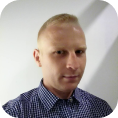
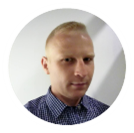
Fix: Added images and styling project__footer

diff --git a/dist/js/main.js b/dist/js/main.js
@@ -1,1 +1,1 @@
[2 lines of base64/hex data omitted]

diff --git a/dist/css/main.css b/dist/css/main.css
@@ -314,9 +314,10 @@ template {
   padding: 10rem 8rem 5rem 4rem; }
   .hero__image {
     position: absolute;
-    left: 6rem;
+    left: 7.5rem;
     top: 6rem;
     border-radius: 50%;
+    border: .4rem solid lightgrey;
     width: 7rem;
     height: 7rem; }
   .hero__title {
@@ -377,9 +378,8 @@ template {
     color: #2251CC; }
 
 .projects {
-  padding: 0 8rem 0 4rem;
-  margin: 8rem 0;
   background: #F5F7FA;
+  padding: 6rem 8rem 6rem 6rem;
   width: 100%; }
   .projects__title {
     color: #171F3F;
@@ -387,12 +387,12 @@ template {
     line-height: 2.75rem;
     padding: 1rem 0; }
   .projects__description {
+    color: #52606D;
     font-weight: 300;
     font-size: 1.25rem;
     line-height: 2.25rem;
     max-width: 681px;
     max-height: 108px;
-    color: #52606D;
     text-align: justify; }
 
 .container__projects {
@@ -435,19 +435,50 @@ template {
     padding: 2rem; }
   .project__footer {
     background: #F5F7FA;
-    height: 4rem;
-    width: 100%;
-    padding: 1.2rem 0 0 11rem; }
+    padding: 1rem 2rem;
+    text-align: end;
+    width: 100%; }
   .project__link {
     color: #0593FB;
     font-size: 1.1rem;
     font-weight: 500;
+    line-height: 2rem;
     text-decoration: none;
-    padding: 0 1rem; }
+    padding: 0 1rem;
+    display: -webkit-inline-box;
+    display: -ms-inline-flexbox;
+    display: inline-flex;
+    -webkit-box-align: center;
+        -ms-flex-align: center;
+            align-items: center; }
+    .project__link:nth-child(2) {
+      position: relative; }
+      .project__link:nth-child(2)::after {
+        background: #CBD2D9;
+        content: "";
+        display: block;
+        height: 2rem;
+        pointer-events: none;
+        position: absolute;
+        left: -2%;
+        width: 2px; }
+    .project__link::before {
+      background: url("../assets/img/Code.svg");
+      background-position: center;
+      background-repeat: no-repeat;
+      content: "";
+      display: block;
+      height: 24px;
+      margin: 0 .5rem;
+      width: 24px; }
+    .project__link--active::before {
+      background: url("../assets/img/Demo.svg");
+      background-position: center center;
+      background-repeat: no-repeat; }
 
 .skills {
   max-width: 1240px;
-  padding: 0 4rem;
+  padding: 0 6rem;
   margin: 8rem 0; }
   .skills__title {
     color: #171F3F;
@@ -513,7 +544,7 @@ template {
   max-width: 1440px;
   width: 100%;
   height: 35rem;
-  padding: 5rem 10rem 0 4rem;
+  padding: 5rem 10rem 0 6rem;
   background: #171F3F; }
   .footer__title {
     color: #fff;

diff --git a/src/scss/modules/article.scss b/src/scss/modules/article.scss
@@ -1,7 +1,6 @@
 .projects {
-    padding: 0 8rem 0 4rem;
-    margin: 8rem 0;
     background: $background-grey;
+    padding: 6rem 8rem 6rem 6rem;
     width: 100%;
 
     &__title {
@@ -12,12 +11,12 @@
     }
 
     &__description {
+        color: $description-color;
         font-weight: 300;
         font-size: 1.25rem;
         line-height: 2.25rem;
         max-width: 681px;
         max-height: 108px;
-        color: $description-color;
         text-align: justify;
     }
 }
@@ -41,7 +40,6 @@
     flex-direction: column;
     justify-content: space-between;
 
-
     &__name {
         color: $border;
         font-size: 1.25rem;
@@ -64,17 +62,52 @@
 
     &__footer {
         background: $background-grey;
-        height: 4rem;
+        padding: 1rem 2rem;
+        text-align: end;
         width: 100%;
-        padding: 1.2rem 0 0 11rem;
     }
 
     &__link {
         color: $blue;
         font-size: 1.1rem;
         font-weight: 500;
+        line-height: 2rem;
         text-decoration: none;
         padding: 0 1rem;
-    }
+        display: inline-flex;
+        align-items: center;
 
+        &:nth-child(2) {
+
+            position: relative;
+
+            &::after {
+                background: #CBD2D9;
+                content: "";
+                display: block;
+                height: 2rem;
+                pointer-events: none;
+                position: absolute;
+                left: -2%;
+                width: 2px;
+            }
+        }
+
+        &::before {
+            background: url("../assets/img/Code.svg");
+            background-position: center;
+            background-repeat: no-repeat;
+            content: "";
+            display: block;
+            height: 24px;
+            margin: 0 .5rem;
+            width: 24px;
+        }
+
+        &--active::before {
+            background: url("../assets/img/Demo.svg");
+            background-position: center center;
+            background-repeat: no-repeat;
+        }
+    }
 }

diff --git a/src/js/main.js b/src/js/main.js
@@ -17,22 +17,18 @@ fetch('https://api.github.com/users/piotrn-87/repos?sort=updated&direction=desc'
       list.innerHTML +=
         `<li class="project">
           <div class="project__wrapper">
-          <img class="project__logo" src="assets/img/github.svg" alt="github icon">
+          <img class="project__logo" src="assets/img/github.svg" alt="github image">
           <h3 class="project__name">${name}</h3> 
           ${description ? `<p class="project__description">${description}</p>`: 'no description'
           }
           </div>
           <div class="project__footer">
-          ${homepage ? `<a class="project__link" href="${homepage}" target="_blank" title="Demo : ${name}">Demo</a>` : ''
+          ${homepage ? `<a class="project__link project__link--active" href="${homepage}" target="_blank" title="Demo : ${name}">Demo</a>` : ''
           }
           <a class="project__link" href="${html_url}" target="_blank" title="source : ${name}">Github</a>
           </div>
         </li>
         `;
-      console.log(name);
-      console.log(description);
-      console.log(html_url);
-      console.log(homepage);
     }
 
   })

diff --git a/dist/index.html b/dist/index.html
@@ -110,12 +110,12 @@
     <h2 class="footer__title">Contact me</h2>
     <p class="footer__description">I’m open for new opportunities. If you have one for me we should talk !!
     </p>
-    <!-- <div class="socials">
+    <div class="socials">
       <a class="socials__link" href="https://github.com/Piotrn-87"><img src="../assets/img/linkedin.png"
           alt="Linkedin icon"></a>
       <a class="socials__link" href="https://github.com/Piotrn-87"><img src="../assets/img/github.png"
           alt="github icon"></a>
-    </div> -->
+    </div>
     <a class="footer__mail" href="mailto:piotrn-87@o2.pl">piotrn-87@o2.pl</a>
   </footer>
 

diff --git a/src/content/index.html b/src/content/index.html
@@ -110,12 +110,12 @@
     <h2 class="footer__title">Contact me</h2>
     <p class="footer__description">I’m open for new opportunities. If you have one for me we should talk !!
     </p>
-    <!-- <div class="socials">
+    <div class="socials">
       <a class="socials__link" href="https://github.com/Piotrn-87"><img src="../assets/img/linkedin.png"
           alt="Linkedin icon"></a>
       <a class="socials__link" href="https://github.com/Piotrn-87"><img src="../assets/img/github.png"
           alt="github icon"></a>
-    </div> -->
+    </div>
     <a class="footer__mail" href="mailto:piotrn-87@o2.pl">piotrn-87@o2.pl</a>
   </footer>
 

diff --git a/src/scss/modules/skills.scss b/src/scss/modules/skills.scss
@@ -1,6 +1,6 @@
 .skills {
     max-width: 1240px;
-    padding: 0 4rem;
+    padding: 0 6rem;
     margin: 8rem 0;
 
     &__title {
@@ -44,7 +44,6 @@
 
     &__items {
         display: grid;
-        // grid-template-columns: repeat(auto-fill, minmax(2fr, 1fr));
         grid-template-columns: 3fr 2fr;
         grid-column-gap: 1rem;
         padding: 0 0 0 4rem;

diff --git a/src/scss/modules/hero.scss b/src/scss/modules/hero.scss
@@ -3,11 +3,13 @@
     margin: 0 auto;
     padding: 10rem 8rem 5rem 4rem;
 
+
     &__image {
         position: absolute;
-        left: 6rem;
+        left: 7.5rem;
         top: 6rem;
         border-radius: 50%;
+        border: .4rem solid lightgrey;
         width: 7rem;
         height: 7rem;
     }

diff --git a/src/scss/modules/footer.scss b/src/scss/modules/footer.scss
@@ -2,7 +2,7 @@
     max-width: 1440px;
     width: 100%;
     height: 35rem;
-    padding: 5rem 10rem 0 4rem;
+    padding: 5rem 10rem 0 6rem;
     background: $border;
 
     &__title {
